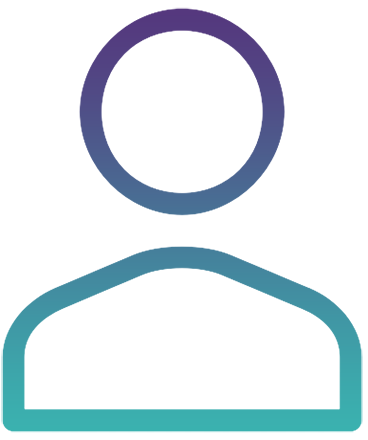
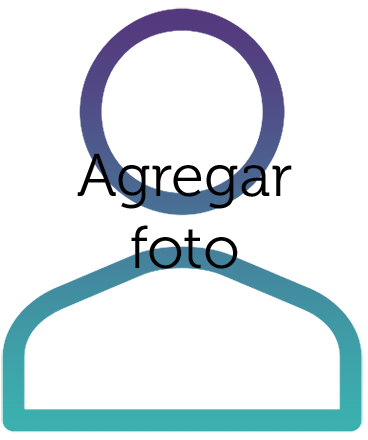
Ajustes iconos y botones

Changed region(s): [[0.2092, 0.3545, 0.8071, 0.4727], [0.3587, 0.5023, 0.6576, 0.6205], [0.4185, 0.5909, 0.4783, 0.6205]]

diff --git a/src/main/java/IFEstandar.java b/src/main/java/IFEstandar.java
@@ -31,6 +31,7 @@ import java.util.regex.Matcher;
 import java.util.regex.Pattern;
 import java.util.stream.Collectors;
 import java.util.stream.Stream;
+import javax.imageio.ImageIO;
 import javax.swing.AbstractAction;
 import javax.swing.Box;
 import javax.swing.BoxLayout;
@@ -76,7 +77,7 @@ public  class IFEstandar extends javax.swing.JFrame {
      
     Map<Object, ImageIcon> icons = new HashMap<>();
     
-    Map<Object, Integer> numerosMap = new HashMap<>();
+    Map<Object, Icon> numerosMap = new HashMap<>();
     
     public IFEstandar(String usuario) {
        
@@ -90,9 +91,10 @@ public  class IFEstandar extends javax.swing.JFrame {
  
         
         cuenta="Nueva";
+        
         lblBienvenido.setText("Bienvenido usuario "+cuenta);
         
-        ImageIcon imIc3= new ImageIcon("src/main/java/Imagenes/btnBuscar.gif");
+        ImageIcon imIc3= new ImageIcon("src/main/java/Imagenes/btnAgregar.gif");
         btnBuscar.setIcon(imIc3);
         
        
@@ -163,7 +165,6 @@ public  class IFEstandar extends javax.swing.JFrame {
         btnMod = new javax.swing.JLabel();
         Foto = new javax.swing.JLabel();
         btnSalir = new javax.swing.JLabel();
-        txtUsuario = new javax.swing.JTextField();
         btnBuscar = new javax.swing.JLabel();
         jScrollPane1 = new javax.swing.JScrollPane();
         jList1 = new javax.swing.JList<>();
@@ -206,12 +207,6 @@ public  class IFEstandar extends javax.swing.JFrame {
             }
         });
 
-        txtUsuario.setFont(new java.awt.Font("Museo 300", 0, 18)); // NOI18N
-        txtUsuario.setHorizontalAlignment(javax.swing.JTextField.CENTER);
-        txtUsuario.setText("Buscar Usuario");
-        txtUsuario.setToolTipText("");
-        txtUsuario.setName(""); // NOI18N
-
         btnBuscar.setFont(new java.awt.Font("Museo 300", 0, 18)); // NOI18N
         btnBuscar.setHorizontalAlignment(javax.swing.SwingConstants.CENTER);
         btnBuscar.setCursor(new java.awt.Cursor(java.awt.Cursor.HAND_CURSOR));
@@ -252,10 +247,7 @@ public  class IFEstandar extends javax.swing.JFrame {
                     .addComponent(lblBienvenido, javax.swing.GroupLayout.DEFAULT_SIZE, javax.swing.GroupLayout.DEFAULT_SIZE, Short.MAX_VALUE)
                     .addGroup(javax.swing.GroupLayout.Alignment.LEADING, layout.createSequentialGroup()
                         .addGroup(layout.createParallelGroup(javax.swing.GroupLayout.Alignment.TRAILING)
-                            .addGroup(layout.createSequentialGroup()
-                                .addComponent(txtUsuario, javax.swing.GroupLayout.PREFERRED_SIZE, 227, javax.swing.GroupLayout.PREFERRED_SIZE)
-                                .addGap(286, 286, 286)
-                                .addComponent(btnSalir, javax.swing.GroupLayout.PREFERRED_SIZE, 171, javax.swing.GroupLayout.PREFERRED_SIZE))
+                            .addComponent(btnSalir, javax.swing.GroupLayout.PREFERRED_SIZE, 171, javax.swing.GroupLayout.PREFERRED_SIZE)
                             .addGroup(layout.createSequentialGroup()
                                 .addGroup(layout.createParallelGroup(javax.swing.GroupLayout.Alignment.LEADING)
                                     .addComponent(btnMod, javax.swing.GroupLayout.PREFERRED_SIZE, 181, javax.swing.GroupLayout.PREFERRED_SIZE)
@@ -283,9 +275,7 @@ public  class IFEstandar extends javax.swing.JFrame {
                                 .addComponent(btnMod, javax.swing.GroupLayout.PREFERRED_SIZE, 154, javax.swing.GroupLayout.PREFERRED_SIZE)
                                 .addPreferredGap(javax.swing.LayoutStyle.ComponentPlacement.RELATED)
                                 .addComponent(btnBuscar, javax.swing.GroupLayout.PREFERRED_SIZE, 156, javax.swing.GroupLayout.PREFERRED_SIZE)
-                                .addPreferredGap(javax.swing.LayoutStyle.ComponentPlacement.RELATED)
-                                .addComponent(txtUsuario, javax.swing.GroupLayout.PREFERRED_SIZE, 38, javax.swing.GroupLayout.PREFERRED_SIZE)
-                                .addGap(0, 152, Short.MAX_VALUE))
+                                .addGap(0, 196, Short.MAX_VALUE))
                             .addGroup(layout.createSequentialGroup()
                                 .addGroup(layout.createParallelGroup(javax.swing.GroupLayout.Alignment.LEADING, false)
                                     .addComponent(jScrollPane2, javax.swing.GroupLayout.DEFAULT_SIZE, 197, Short.MAX_VALUE)
@@ -329,9 +319,16 @@ public  class IFEstandar extends javax.swing.JFrame {
 
    
     private void btnBuscarMouseClicked(java.awt.event.MouseEvent evt) {//GEN-FIRST:event_btnBuscarMouseClicked
-        // TODO add your handling code here:
-        // TODO add your handling code here:
-        String patronUsuario="(Usuario)(\\:)(	| |)*(.+)(\\|)(N)";
+        
+        JTextField usuarioBuscarField = new JTextField(30);
+        usuarioBuscarField.setPreferredSize(new java.awt.Dimension(30, 50));
+        JPanel myPanel = new JPanel(); 
+        myPanel.add(new JLabel("Usuario:"));
+        myPanel.add(usuarioBuscarField);
+        int result = JOptionPane.showConfirmDialog(null, myPanel,"Agregar cuenta", JOptionPane.OK_CANCEL_OPTION);
+        if (result == JOptionPane.OK_OPTION)
+        {
+         String patronUsuario="(Usuario)(\\:)(	| |)*(.+)(\\|)(N)";
         Pattern rol = Pattern.compile(patronUsuario);
         String patronEstatus="(Estatus)(\\:)(	| |)*(.+)";  
         Pattern rolE = Pattern.compile(patronEstatus);
@@ -345,7 +342,7 @@ public  class IFEstandar extends javax.swing.JFrame {
                 Matcher m10 = rolE.matcher(lineas.get(i));
                 if(m.find()&&m10.find())
                 {
-                    if(m.group(4).equals(txtUsuario.getText()))
+                    if(m.group(4).equals(usuarioBuscarField.getText()))
                     {
                         //Usuario  existe
                         //JOptionPane.showMessageDialog(null, "Usuario existe");
@@ -358,14 +355,14 @@ public  class IFEstandar extends javax.swing.JFrame {
                         int dialogResult =JOptionPane.showOptionDialog(null, "¿Agregar contacto?", "Agregar contacto",JOptionPane.DEFAULT_OPTION, JOptionPane.PLAIN_MESSAGE, null,options, options[0]);
                         if(dialogResult == 0)
                         {
-                            if(txtUsuario.getText().equals(cuenta))
+                            if(usuarioBuscarField.getText().equals(cuenta))
                             {
                                 JOptionPane.showMessageDialog(null, "No estas sol@! busca contactos :')");
                                 return;
                             }
-                            if(buscarContacto(txtUsuario.getText()))
+                            if(buscarContacto(usuarioBuscarField.getText()))
                             {
-                               agregarContacto(txtUsuario.getText(),1);
+                               agregarContacto(usuarioBuscarField.getText(),1);
                                return;
                             }
                             else
@@ -398,6 +395,11 @@ public  class IFEstandar extends javax.swing.JFrame {
             Logger.getLogger(Registro.class.getName()).log(Level.SEVERE, null, ex);
         }
 
+        
+        }
+        
+        
+       
     }//GEN-LAST:event_btnBuscarMouseClicked
 
     private void jList1MousePressed(java.awt.event.MouseEvent evt) {//GEN-FIRST:event_jList1MousePressed
@@ -993,7 +995,7 @@ public  class IFEstandar extends javax.swing.JFrame {
                         jList1.setCellRenderer(new RenderDeIconos(icons));
                         }
                     }
-           }
+                }
          }
          }
          catch (IOException ex)
@@ -1083,7 +1085,39 @@ public  class IFEstandar extends javax.swing.JFrame {
                 }
                 
                 
-                jList2.setModel(listaTodasLasListas);         
+                jList2.setModel(listaTodasLasListas);
+                
+                for (int i = 0; i < jList2.getModel().getSize(); i++) 
+                {
+                    for (int j = 0; j < listaListasOcultar.size(); j++)
+                    {
+                       if(jList2.getModel().getElementAt(i).equals(listaListasOcultar.getElementAt(j)))
+                       {
+                        Image ajustarImgI =  ImageIO.read(new File("src/main/java/Imagenes/desconectado.png"));
+                        Image ajustarTamañoI= ajustarImgI.getScaledInstance(30,30, Image.SCALE_SMOOTH);
+                        ImageIcon icon = new ImageIcon(ajustarTamañoI);
+                        numerosMap.put(jList2.getModel().getElementAt(i),icon);
+                        jList2.setCellRenderer(new RenderNumeros(numerosMap));
+                       }
+                    } 
+                    for (int j = 0; j < listaListasMostrar.size(); j++)
+                    {
+                        if(jList2.getModel().getElementAt(i).equals(listaListasMostrar.getElementAt(j)))   
+                        {
+                            if(cantidadUsuarios(jList2.getModel().getElementAt(i))>9)
+                            {
+                                numerosMap.put(jList2.getModel().getElementAt(i), new DynamicIcon(cantidadUsuarios(jList2.getModel().getElementAt(i))+" "));
+                                jList2.setCellRenderer(new RenderNumeros(numerosMap));
+                            }
+                            else
+                            {
+                                numerosMap.put(jList2.getModel().getElementAt(i), new DynamicIcon(cantidadUsuarios(jList2.getModel().getElementAt(i))+"  "));
+                                jList2.setCellRenderer(new RenderNumeros(numerosMap));
+                            }
+                        }
+                    }
+                   
+                }
                 
                 
            }
@@ -1093,6 +1127,8 @@ public  class IFEstandar extends javax.swing.JFrame {
            Logger.getLogger(IFEstandar.class.getName()).log(Level.SEVERE, null, ex);
          }
            
+         
+         
     }
     public boolean buscarContacto(String contactoB)
     {
@@ -1716,13 +1752,7 @@ public  class IFEstandar extends javax.swing.JFrame {
        mostrarListas();
     }
 
-    private int locationToIndex(Point point) {
-        throw new UnsupportedOperationException("Not supported yet."); //To change body of generated methods, choose Tools | Templates.
-    }
 
-    private Object getModel() {
-        throw new UnsupportedOperationException("Not supported yet."); //To change body of generated methods, choose Tools | Templates.
-    }
     private class AccionesEnLasListas extends AbstractAction {
         public AccionesEnLasListas(String name) {
             super(name);
@@ -1792,6 +1822,5 @@ public  class IFEstandar extends javax.swing.JFrame {
     private javax.swing.JScrollPane jScrollPane1;
     private javax.swing.JScrollPane jScrollPane2;
     private javax.swing.JLabel lblBienvenido;
-    private javax.swing.JTextField txtUsuario;
     // End of variables declaration//GEN-END:variables
 }

diff --git a/src/main/java/DynamicIcon.java b/src/main/java/DynamicIcon.java
@@ -1,0 +1,62 @@
+
+import java.awt.Color;
+import java.awt.Component;
+import java.awt.Font;
+import java.awt.Graphics;
+import java.awt.Graphics2D;
+import java.awt.RenderingHints;
+import java.awt.font.FontRenderContext;
+import java.awt.geom.Rectangle2D;
+import javax.swing.Icon;
+
+public class DynamicIcon implements Icon
+{
+  Font                     font         = new Font( "Museo 300", Font.PLAIN, 24 );
+  private final static int DEFAULT_SIZE = 16;
+  private int              width        = DEFAULT_SIZE;
+  private int              height       = DEFAULT_SIZE;
+
+  private String           iconText;
+
+  public DynamicIcon( String iconText )
+  {
+    this.iconText = iconText;
+
+    recalculateIconWidth( iconText );
+  }
+
+  private void recalculateIconWidth( String iconText )
+  {
+    FontRenderContext frc = new FontRenderContext( null, true, true );
+    Rectangle2D bounds = font.getStringBounds( iconText, frc );
+    width = (int) bounds.getWidth();
+    height = (int) bounds.getHeight();
+  }
+
+  @Override
+  public int getIconHeight()
+  {
+    return height;
+  }
+
+  @Override
+  public int getIconWidth()
+  {
+    return width;
+  }
+
+  @Override
+  public void paintIcon( Component c, Graphics g, int x, int y )
+  {
+    Graphics2D g2d = (Graphics2D) g;
+
+    g2d.setFont( font );
+
+    g2d.setRenderingHint( RenderingHints.KEY_TEXT_ANTIALIASING, RenderingHints.VALUE_TEXT_ANTIALIAS_ON );
+    g2d.setRenderingHint( RenderingHints.KEY_ANTIALIASING, RenderingHints.VALUE_ANTIALIAS_ON );
+
+    //FontColor
+    g2d.setPaint( Color.BLACK );
+    g2d.drawString( iconText, 10, 24 );
+  }
+}

diff --git a/src/main/java/RenderNumeros.java b/src/main/java/RenderNumeros.java
@@ -1,0 +1,49 @@
+
+import java.awt.Component;
+import java.util.Map;
+import javax.swing.DefaultListCellRenderer;
+import javax.swing.Icon;
+import javax.swing.ImageIcon;
+import javax.swing.JLabel;
+import javax.swing.JList;
+
+/*
+ * To change this license header, choose License Headers in Project Properties.
+ * To change this template file, choose Tools | Templates
+ * and open the template in the editor.
+ */
+
+/**
+ *
+ * @author Zer0
+ */
+public class RenderNumeros 
+	extends DefaultListCellRenderer {
+
+	private Map<Object, Icon> icons = null;
+	
+	public RenderNumeros(Map<Object, Icon> icons) {
+		this.icons = icons;
+	}
+	
+        @Override
+	public Component getListCellRendererComponent(
+		JList list, Object value, int index, 
+		boolean isSelected, boolean cellHasFocus) {
+		
+		// Get the renderer component from parent class
+		
+		JLabel label = 
+			(JLabel) super.getListCellRendererComponent(list, 
+				value, index, isSelected, cellHasFocus);
+		
+		// Get icon to use for the list item value
+		
+		Icon icon = icons.get(value);
+		
+		// Set icon to display for value
+		
+		label.setIcon(icon);
+		return label;
+	}
+}
